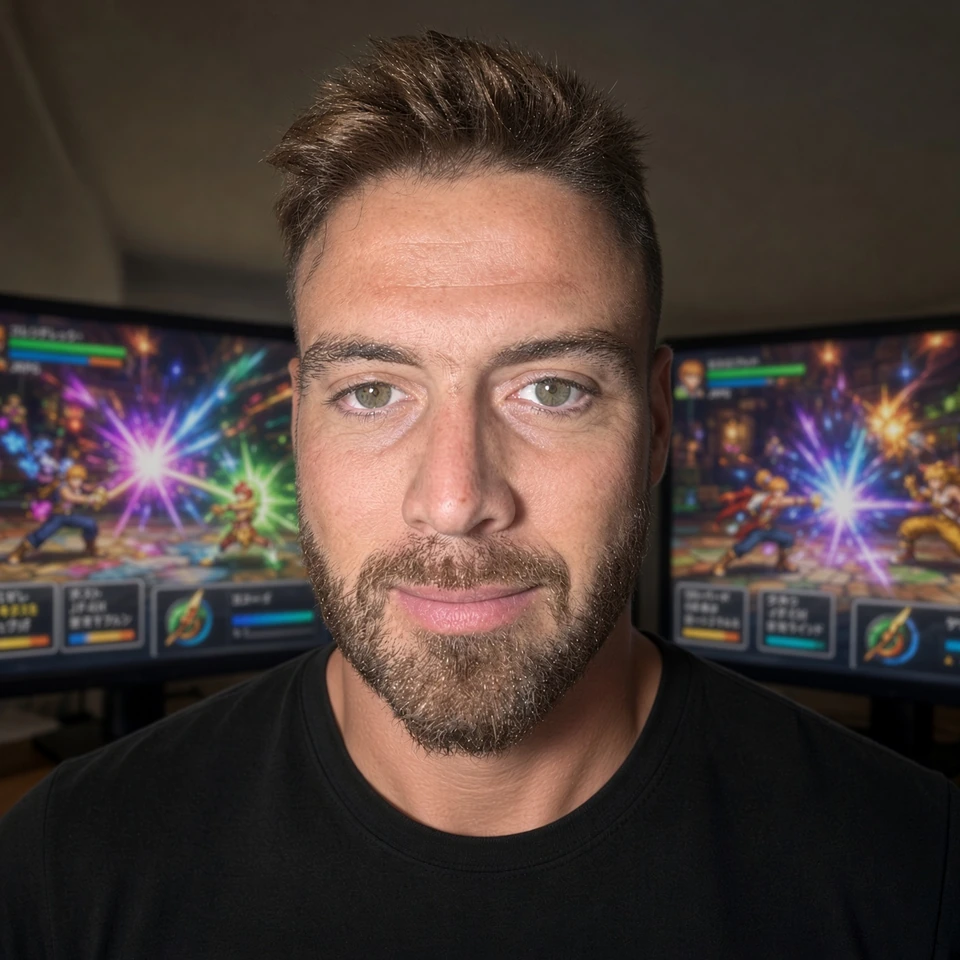
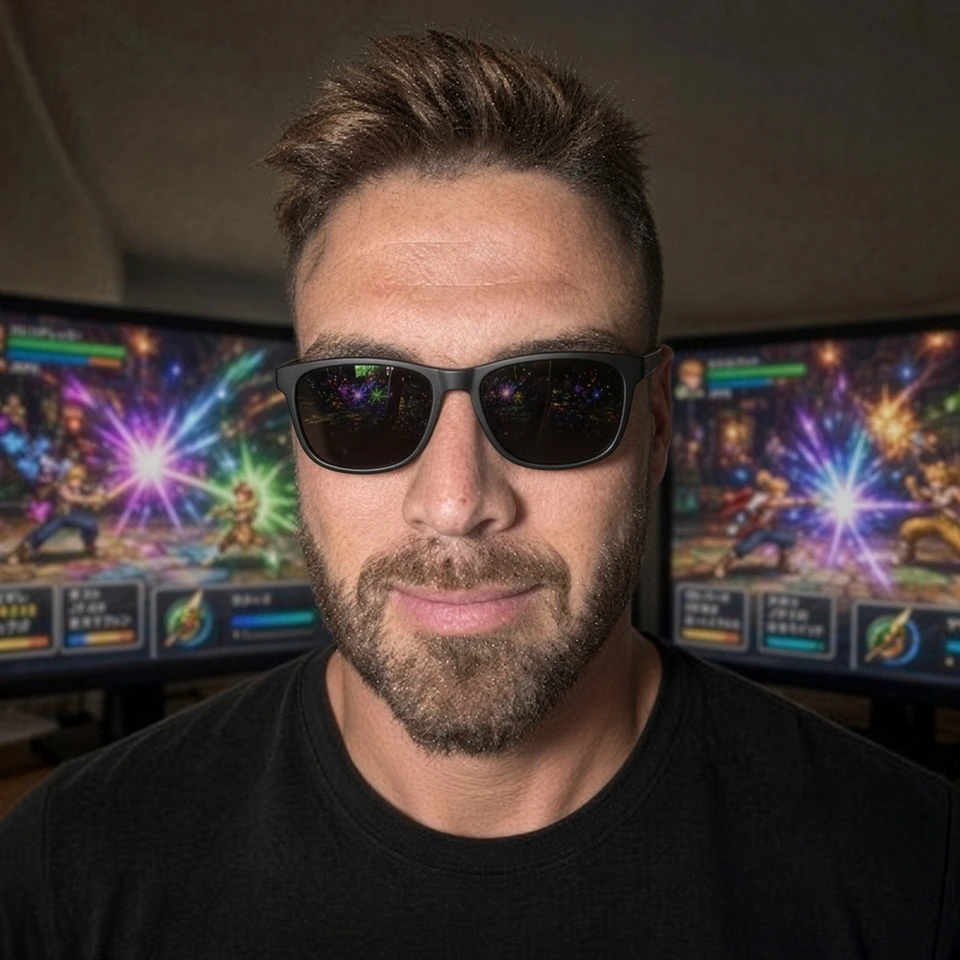
Restore the full-width About portrait with sunglasses

diff --git a/index.html b/index.html
@@ -17,7 +17,7 @@
   <link rel="canonical" href="https://alhuissi.com/">
   <link rel="icon" type="image/svg+xml" href="./island-media/alhuissi-mark.svg">
   <link rel="preload" href="./island-media/BodoniModa.woff2" as="font" type="font/woff2" crossorigin>
-  <link rel="stylesheet" href="./island.css?v=75733cc5ed28">
+  <link rel="stylesheet" href="./island.css?v=577821c0f265">
   <script type="module" src="./island-runtime/app.js"></script>
 </head>
 <body>
@@ -235,7 +235,7 @@
         <h2 id="workshop-title">Alfredo L’Huissier</h2>
         <p class="about-lead">I’m an independent game developer and musician. I make games, write music, and build the tools I use along the way.</p>
         <figure class="entry-art about-portrait">
-          <img src="./island-media/alfredo-portrait.webp" width="960" height="960" alt="Alfredo L’Huissier in front of two monitors showing a game battle." loading="lazy" decoding="async">
+          <img src="./island-media/alfredo-portrait.webp?v=022b9efbe3ce" width="960" height="960" alt="Alfredo L’Huissier wearing sunglasses in front of two monitors showing a game battle." loading="lazy" decoding="async">
         </figure>
         <p class="about-projects">I’m working on <a href="#dream-ocean">Dream Ocean</a>, a story-driven RPG about memory, and <a href="#pocket-orbit">Pocket Orbit</a>, where you fly a ship as a cat and grow a garden on a new planet. I also made <a href="#hanzizap">HanziZap</a> for learning Mandarin in quick arcade rounds.</p>
         <nav class="entry-links" aria-label="Contact and updates">

diff --git a/island.css b/island.css
@@ -550,10 +550,7 @@ kbd {
   font-size: 1.09rem;
   line-height: 1.55;
 }
-.about-portrait {
-  width: min(18rem, 75%);
-  margin: 1.15rem 0;
-}
+.about-portrait { margin: 1.15rem 0; }
 .about-portrait img {
   aspect-ratio: 5 / 4;
   object-fit: cover;
